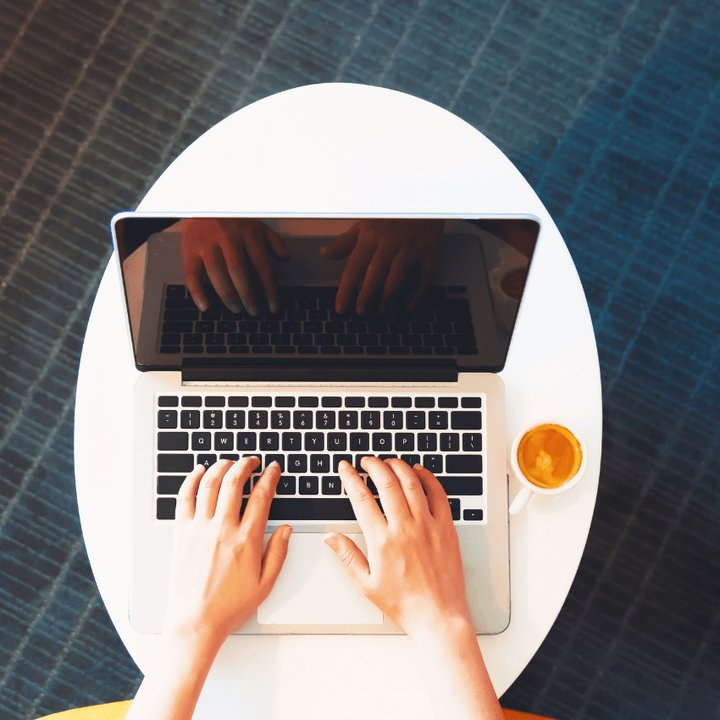
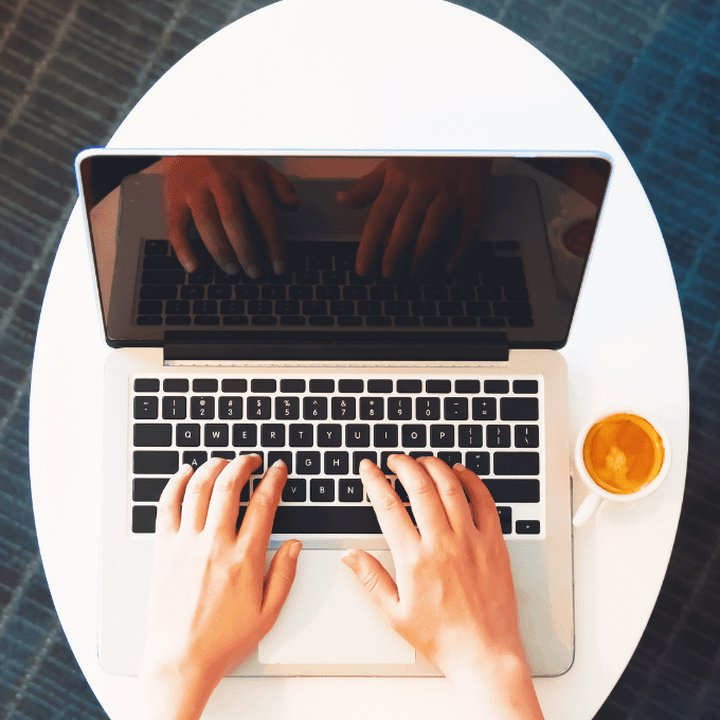
fix(frontend): hero crop, navbar edge padding, current footer year
- Hero artwork recropped tighter around the laptop so the white table
  fills the circle; the old crop sliced through the table edge and the
  hands
- Navbar content is wrapped in a .container-fluid so the Login button
  no longer touches the right edge of the viewport; nav links centre
  with mx-auto instead of a hard-coded 450px left margin
- Footer copyright year is filled in by include.js after the partial
  loads, so it stops reading 2024

diff --git a/frontend/partials/navbar.html b/frontend/partials/navbar.html
@@ -1,4 +1,5 @@
 <nav class="navbar navbar-expand-lg navbar-light bg-danger fixed-top">
+  <div class="container-fluid">
     <a class="navbar-brand" href="./index.html">
         <img src="./images/logo.png" class="logo" alt="SkillHive logo">
         <span>SKILLHIVE</span>
@@ -7,7 +8,7 @@
         <span class="navbar-toggler-icon"></span>
     </button>
     <div class="collapse navbar-collapse" id="navbarSupportedContent">
-        <ul class="navbar-nav ms-auto">
+        <ul class="navbar-nav mx-auto">
             <li class="nav-item active">
                 <a class="nav-link" href="./index.html#home">Home</a>
             </li>
@@ -21,9 +22,10 @@
                 <a class="nav-link" href="./index.html#team">Team</a>
             </li>
         </ul>
-        <div class="flex-row ms-auto">
+        <div class="flex-row">
             <a href="./signUp.html" class="btn btn-primary me-2">Sign Up</a>
             <a href="./login.html" class="btn btn-success">Login</a>
         </div>
     </div>
+  </div>
 </nav>

diff --git a/frontend/scripts/include.js b/frontend/scripts/include.js
@@ -6,6 +6,7 @@ document.addEventListener('DOMContentLoaded', () => {
             const res = await fetch(url);
             if (!res.ok) throw new Error(`Failed to load ${url}: ${res.status}`);
             el.outerHTML = await res.text();
+            document.querySelectorAll('[data-year]').forEach((y) => { y.textContent = new Date().getFullYear(); });
         } catch (err) {
             console.error('[include]', err);
         }

diff --git a/frontend/partials/footer.html b/frontend/partials/footer.html
@@ -30,6 +30,6 @@
 </footer>
 <div class="footer-down bg-dark m-0">
     <div class="cold text-center">
-        <p class="copyright">&copy; 2024 SkillHive. All Rights Reserved.</p>
+        <p class="copyright">&copy; <span data-year>2026</span> SkillHive. All Rights Reserved.</p>
     </div>
 </div>

diff --git a/frontend/css/app.css b/frontend/css/app.css
@@ -58,7 +58,6 @@ li {
 }
 
 .navbar-nav {
-    margin-left: 450px;
     display: flex;
     align-items: center;
 }
